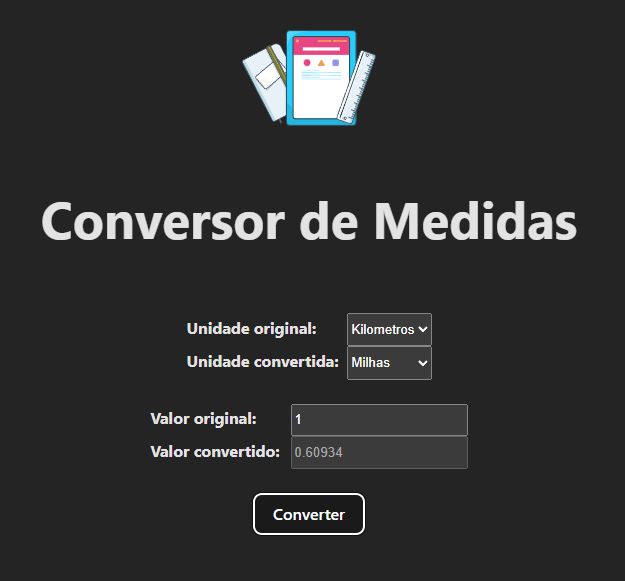
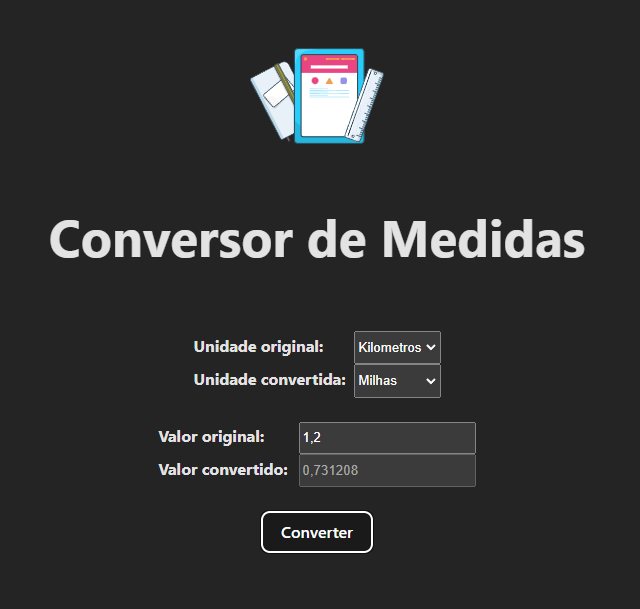
Separador decimal Brasileiro + validação do valor digitado

diff --git a/src/App.jsx b/src/App.jsx
@@ -1,30 +1,43 @@
 import { useState } from "react";
 import mainLogo from "./assets/logo.svg";
 import "./App.css";
-import * as Constants from "./Constants.js"
+import * as Constants from "./Constants.js";
 
 function App() {
-  const [origValue, setOrigValue] = useState(1);
+  const [origValue, setOrigValue] = useState("");
   const [convValue, setConvValue] = useState("");
   const [origUnit, setOrigUnit] = useState(Constants.KM);
   const [convUnit, setConvUnit] = useState(Constants.MILES);
 
   function convertUnit(value) {
+    // Usar separador original para calculo
+    value = value.replace(/,/g, ".");
+
     if (isNaN(+value)) {
       return "Número inválido!";
     }
 
     if (origUnit === Constants.KM) {
       switch (convUnit) {
-        case "Milhas":
-          return value * Constants.KM_TO_MILE;
+        case Constants.MILES:
+          value = value * Constants.KM_TO_MILE;
       }
     } else if (origUnit === Constants.MILES) {
       switch (convUnit) {
-        case "Kilometros":
-          return value * Constants.MILE_TO_KM;
+        case Constants.KM:
+          value = value * Constants.MILE_TO_KM;
       }
     }
+
+    return fixInput(value);
+  }
+
+  function fixInput(value) {
+    // Separador decimal usado no Brasil
+    value = value.toString().replace(/\./g, ",");
+
+    // Aceite apenas números e virgulas
+    value = value.replace(/[^\d,]/g, "");
 
     return value;
   }
@@ -46,7 +59,9 @@ function App() {
           onChange={(event) => setOrigUnit(event.target.value)}
         >
           {Constants.units.map((unit, key) => (
-            <option key={key} value={unit}>{unit}</option>
+            <option key={key} value={unit}>
+              {unit}
+            </option>
           ))}
         </select>
         <br />
@@ -60,7 +75,9 @@ function App() {
           onChange={(event) => setConvUnit(event.target.value)}
         >
           {Constants.units.map((unit, key) => (
-            <option key={key} value={unit}>{unit}</option>
+            <option key={key} value={unit}>
+              {unit}
+            </option>
           ))}
         </select>
         <br />
@@ -73,7 +90,7 @@ function App() {
           id="originalValue"
           className="valueInput"
           value={origValue}
-          onChange={(event) => setOrigValue(event.target.value)}
+          onChange={(event) => setOrigValue(fixInput(event.target.value))}
         ></input>
         <br />
 
